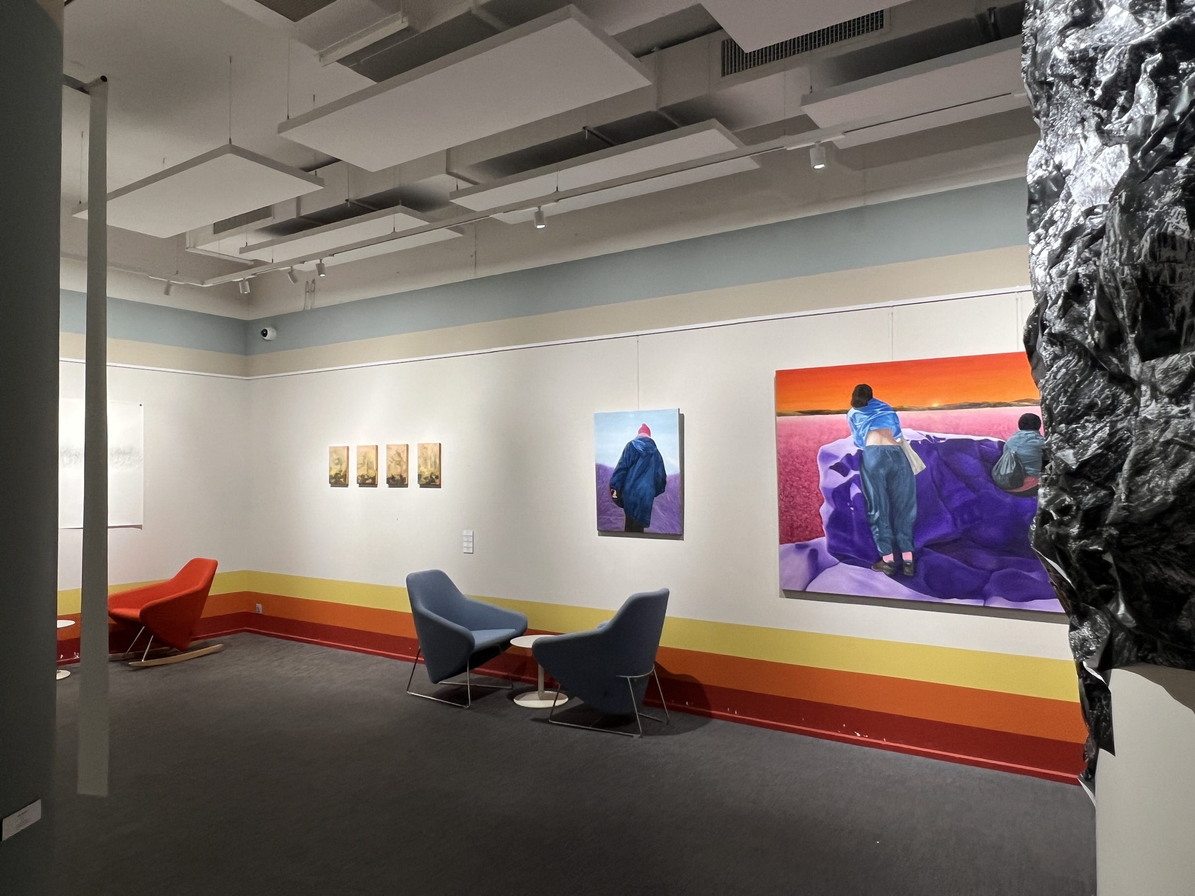
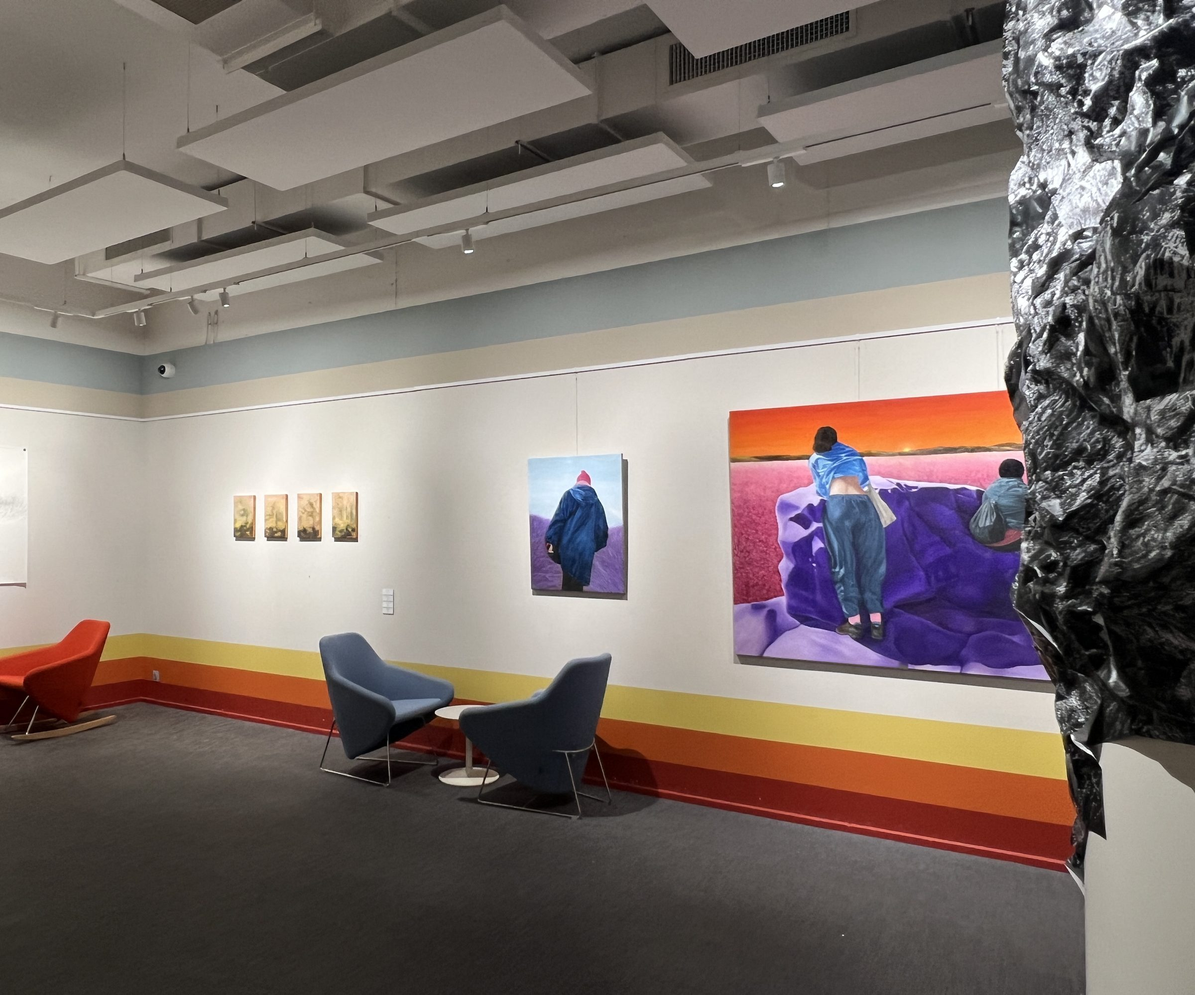
FIAP 2026 : vue 1 recadrée (sans poteau ni rouleau), éclats de peinture effacés sur les vues 1 et 2

diff --git a/en/exhibitions.html b/en/exhibitions.html
@@ -27,12 +27,12 @@
   <link rel="preconnect" href="https://fonts.googleapis.com">
   <link rel="preconnect" href="https://fonts.gstatic.com" crossorigin>
   <link href="https://fonts.googleapis.com/css2?family=Yanone+Kaffeesatz:wght@700&display=swap" rel="stylesheet">
-  <link rel="stylesheet" href="css/style.css?v=149">
+  <link rel="stylesheet" href="css/style.css?v=150">
 </head>
 <body data-page="exhibitions">
   <header class="colonne" data-nav></header>
   <main></main>
-  <script src="js/data.js?v=149"></script>
-  <script src="js/site.js?v=149"></script>
+  <script src="js/data.js?v=150"></script>
+  <script src="js/site.js?v=150"></script>
 </body>
 </html>

diff --git a/exhibitions.html b/exhibitions.html
@@ -26,12 +26,12 @@
   <link rel="preconnect" href="https://fonts.googleapis.com">
   <link rel="preconnect" href="https://fonts.gstatic.com" crossorigin>
   <link href="https://fonts.googleapis.com/css2?family=Yanone+Kaffeesatz:wght@700&display=swap" rel="stylesheet">
-  <link rel="stylesheet" href="css/style.css?v=149">
+  <link rel="stylesheet" href="css/style.css?v=150">
 </head>
 <body data-page="exhibitions">
   <header class="colonne" data-nav></header>
   <main></main>
-  <script src="js/data.js?v=149"></script>
-  <script src="js/site.js?v=149"></script>
+  <script src="js/data.js?v=150"></script>
+  <script src="js/site.js?v=150"></script>
 </body>
 </html>

diff --git a/en/paintings.html b/en/paintings.html
@@ -27,12 +27,12 @@
   <link rel="preconnect" href="https://fonts.googleapis.com">
   <link rel="preconnect" href="https://fonts.gstatic.com" crossorigin>
   <link href="https://fonts.googleapis.com/css2?family=Yanone+Kaffeesatz:wght@700&display=swap" rel="stylesheet">
-  <link rel="stylesheet" href="css/style.css?v=149">
+  <link rel="stylesheet" href="css/style.css?v=150">
 </head>
 <body data-page="paintings">
   <header class="colonne" data-nav></header>
   <main></main>
-  <script src="js/data.js?v=149"></script>
-  <script src="js/site.js?v=149"></script>
+  <script src="js/data.js?v=150"></script>
+  <script src="js/site.js?v=150"></script>
 </body>
 </html>

diff --git a/paintings.html b/paintings.html
@@ -26,12 +26,12 @@
   <link rel="preconnect" href="https://fonts.googleapis.com">
   <link rel="preconnect" href="https://fonts.gstatic.com" crossorigin>
   <link href="https://fonts.googleapis.com/css2?family=Yanone+Kaffeesatz:wght@700&display=swap" rel="stylesheet">
-  <link rel="stylesheet" href="css/style.css?v=149">
+  <link rel="stylesheet" href="css/style.css?v=150">
 </head>
 <body data-page="paintings">
   <header class="colonne" data-nav></header>
   <main></main>
-  <script src="js/data.js?v=149"></script>
-  <script src="js/site.js?v=149"></script>
+  <script src="js/data.js?v=150"></script>
+  <script src="js/site.js?v=150"></script>
 </body>
 </html>

diff --git a/drawings.html b/drawings.html
@@ -26,12 +26,12 @@
   <link rel="preconnect" href="https://fonts.googleapis.com">
   <link rel="preconnect" href="https://fonts.gstatic.com" crossorigin>
   <link href="https://fonts.googleapis.com/css2?family=Yanone+Kaffeesatz:wght@700&display=swap" rel="stylesheet">
-  <link rel="stylesheet" href="css/style.css?v=149">
+  <link rel="stylesheet" href="css/style.css?v=150">
 </head>
 <body data-page="drawings">
   <header class="colonne" data-nav></header>
   <main></main>
-  <script src="js/data.js?v=149"></script>
-  <script src="js/site.js?v=149"></script>
+  <script src="js/data.js?v=150"></script>
+  <script src="js/site.js?v=150"></script>
 </body>
 </html>

diff --git a/en/drawings.html b/en/drawings.html
@@ -27,12 +27,12 @@
   <link rel="preconnect" href="https://fonts.googleapis.com">
   <link rel="preconnect" href="https://fonts.gstatic.com" crossorigin>
   <link href="https://fonts.googleapis.com/css2?family=Yanone+Kaffeesatz:wght@700&display=swap" rel="stylesheet">
-  <link rel="stylesheet" href="css/style.css?v=149">
+  <link rel="stylesheet" href="css/style.css?v=150">
 </head>
 <body data-page="drawings">
   <header class="colonne" data-nav></header>
   <main></main>
-  <script src="js/data.js?v=149"></script>
-  <script src="js/site.js?v=149"></script>
+  <script src="js/data.js?v=150"></script>
+  <script src="js/site.js?v=150"></script>
 </body>
 </html>

diff --git a/contact.html b/contact.html
@@ -26,12 +26,12 @@
   <link rel="preconnect" href="https://fonts.googleapis.com">
   <link rel="preconnect" href="https://fonts.gstatic.com" crossorigin>
   <link href="https://fonts.googleapis.com/css2?family=Yanone+Kaffeesatz:wght@700&display=swap" rel="stylesheet">
-  <link rel="stylesheet" href="css/style.css?v=149">
+  <link rel="stylesheet" href="css/style.css?v=150">
 </head>
 <body data-page="contact">
   <header class="colonne" data-nav></header>
   <main></main>
-  <script src="js/data.js?v=149"></script>
-  <script src="js/site.js?v=149"></script>
+  <script src="js/data.js?v=150"></script>
+  <script src="js/site.js?v=150"></script>
 </body>
 </html>

diff --git a/en/contact.html b/en/contact.html
@@ -27,12 +27,12 @@
   <link rel="preconnect" href="https://fonts.googleapis.com">
   <link rel="preconnect" href="https://fonts.gstatic.com" crossorigin>
   <link href="https://fonts.googleapis.com/css2?family=Yanone+Kaffeesatz:wght@700&display=swap" rel="stylesheet">
-  <link rel="stylesheet" href="css/style.css?v=149">
+  <link rel="stylesheet" href="css/style.css?v=150">
 </head>
 <body data-page="contact">
   <header class="colonne" data-nav></header>
   <main></main>
-  <script src="js/data.js?v=149"></script>
-  <script src="js/site.js?v=149"></script>
+  <script src="js/data.js?v=150"></script>
+  <script src="js/site.js?v=150"></script>
 </body>
 </html>

diff --git a/en/index.html b/en/index.html
@@ -27,12 +27,12 @@
   <link rel="preconnect" href="https://fonts.googleapis.com">
   <link rel="preconnect" href="https://fonts.gstatic.com" crossorigin>
   <link href="https://fonts.googleapis.com/css2?family=Yanone+Kaffeesatz:wght@700&display=swap" rel="stylesheet">
-  <link rel="stylesheet" href="css/style.css?v=149">
+  <link rel="stylesheet" href="css/style.css?v=150">
 </head>
 <body data-page="accueil">
   <header class="colonne" data-nav></header>
   <main></main>
-  <script src="js/data.js?v=149"></script>
-  <script src="js/site.js?v=149"></script>
+  <script src="js/data.js?v=150"></script>
+  <script src="js/site.js?v=150"></script>
 </body>
 </html>

diff --git a/index.html b/index.html
@@ -26,12 +26,12 @@
   <link rel="preconnect" href="https://fonts.googleapis.com">
   <link rel="preconnect" href="https://fonts.gstatic.com" crossorigin>
   <link href="https://fonts.googleapis.com/css2?family=Yanone+Kaffeesatz:wght@700&display=swap" rel="stylesheet">
-  <link rel="stylesheet" href="css/style.css?v=149">
+  <link rel="stylesheet" href="css/style.css?v=150">
 </head>
 <body data-page="accueil">
   <header class="colonne" data-nav></header>
   <main></main>
-  <script src="js/data.js?v=149"></script>
-  <script src="js/site.js?v=149"></script>
+  <script src="js/data.js?v=150"></script>
+  <script src="js/site.js?v=150"></script>
 </body>
 </html>

diff --git a/en/murals.html b/en/murals.html
@@ -27,12 +27,12 @@
   <link rel="preconnect" href="https://fonts.googleapis.com">
   <link rel="preconnect" href="https://fonts.gstatic.com" crossorigin>
   <link href="https://fonts.googleapis.com/css2?family=Yanone+Kaffeesatz:wght@700&display=swap" rel="stylesheet">
-  <link rel="stylesheet" href="css/style.css?v=149">
+  <link rel="stylesheet" href="css/style.css?v=150">
 </head>
 <body data-page="murals">
   <header class="colonne" data-nav></header>
   <main></main>
-  <script src="js/data.js?v=149"></script>
-  <script src="js/site.js?v=149"></script>
+  <script src="js/data.js?v=150"></script>
+  <script src="js/site.js?v=150"></script>
 </body>
 </html>

diff --git a/en/videos.html b/en/videos.html
@@ -27,12 +27,12 @@
   <link rel="preconnect" href="https://fonts.googleapis.com">
   <link rel="preconnect" href="https://fonts.gstatic.com" crossorigin>
   <link href="https://fonts.googleapis.com/css2?family=Yanone+Kaffeesatz:wght@700&display=swap" rel="stylesheet">
-  <link rel="stylesheet" href="css/style.css?v=149">
+  <link rel="stylesheet" href="css/style.css?v=150">
 </head>
 <body data-page="videos">
   <header class="colonne" data-nav></header>
   <main></main>
-  <script src="js/data.js?v=149"></script>
-  <script src="js/site.js?v=149"></script>
+  <script src="js/data.js?v=150"></script>
+  <script src="js/site.js?v=150"></script>
 </body>
 </html>
